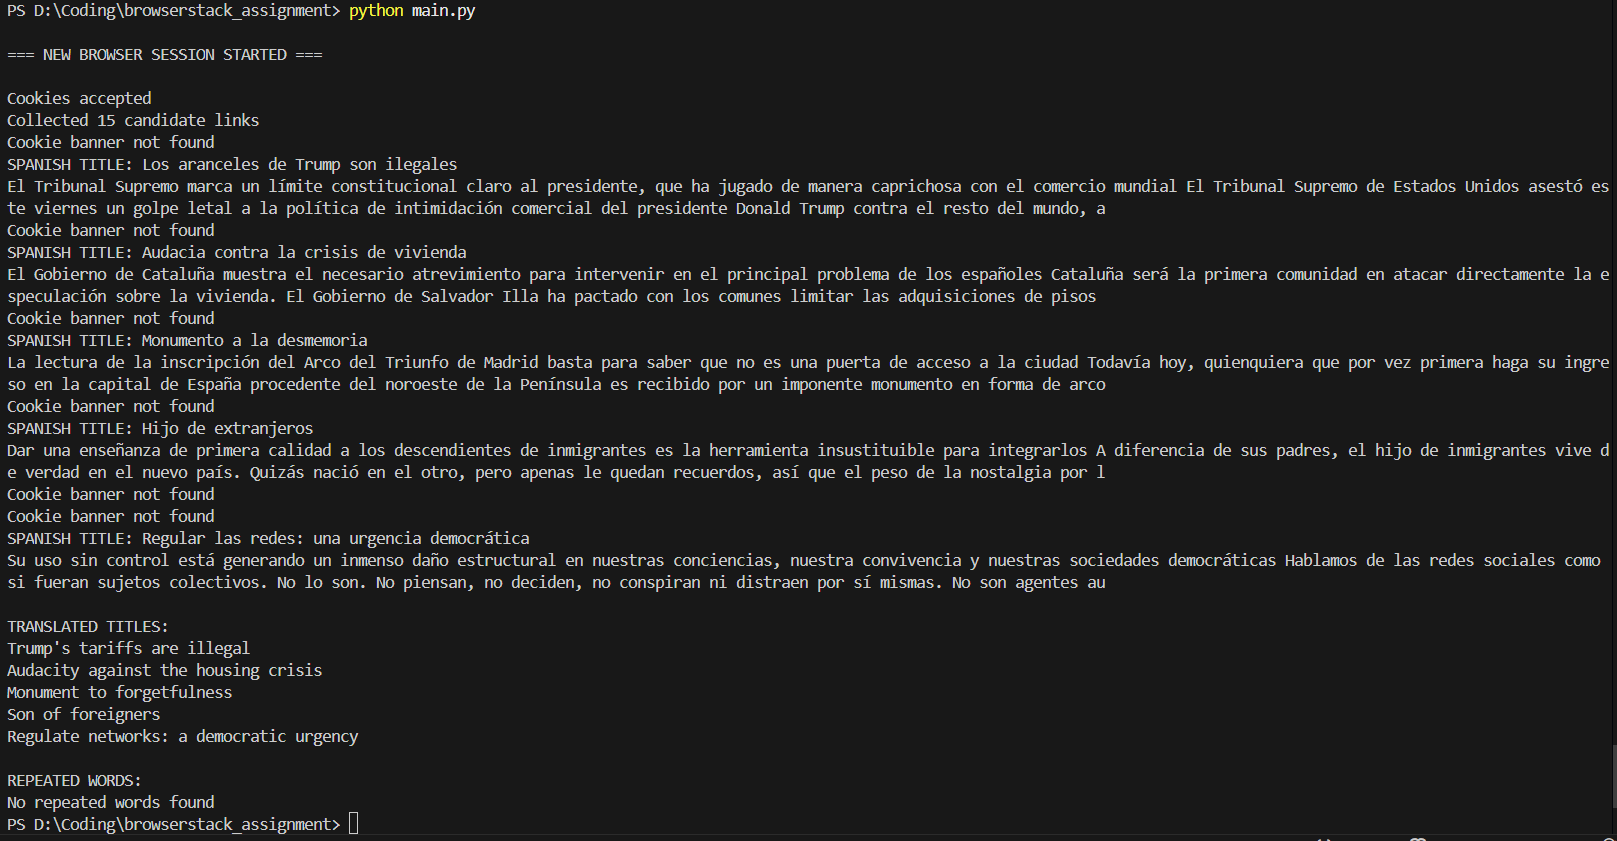
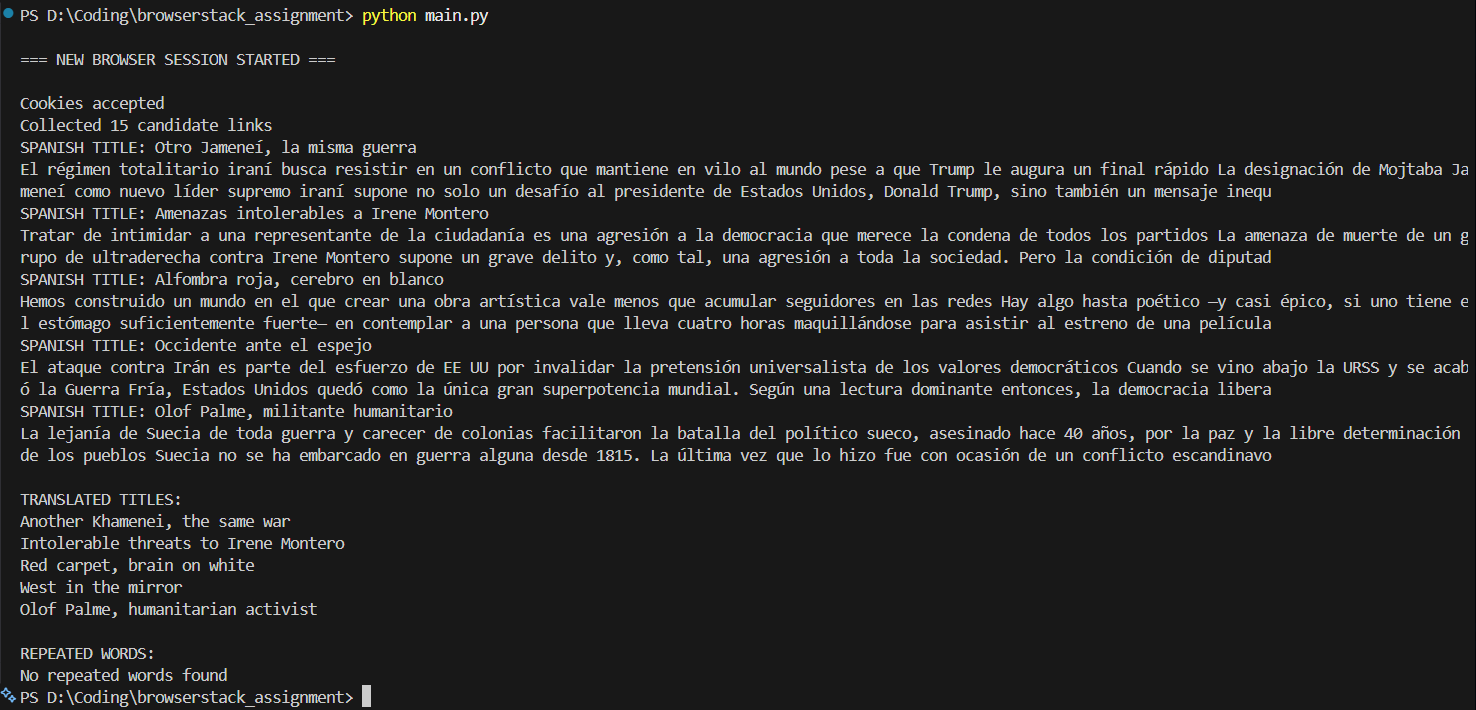
Update driver setup and add new terminal output screenshot

diff --git a/driver/driver_setup.py b/driver/driver_setup.py
@@ -1,3 +1,5 @@
+import os
+from selenium import webdriver
 from selenium.webdriver import Remote
 from selenium.webdriver.chrome.options import Options
 
@@ -5,18 +7,24 @@ def setup_driver():
 
     options = Options()
 
-    options.set_capability("browserName", "Chrome")
-    options.set_capability("browserVersion", "latest")
+    # If BrowserStack SDK is running
+    if os.getenv("BROWSERSTACK_USERNAME"):
 
-    options.set_capability("bstack:options", {
-        "sessionName": "El Pais Scraper Test",
-        "buildName": "browserstack-el-pais-scraper",
-        "projectName": "browserstack-assignment"
-    })
+        options.set_capability("browserName", "Chrome")
 
-    driver = Remote(
-        command_executor="https://hub-cloud.browserstack.com/wd/hub",
-        options=options
-    )
+        options.set_capability("bstack:options", {
+            "sessionName": "El Pais Scraper Test",
+            "buildName": "browserstack-el-pais-scraper",
+            "projectName": "browserstack-assignment"
+        })
+
+        driver = Remote(
+            command_executor="https://hub-cloud.browserstack.com/wd/hub",
+            options=options
+        )
+
+    else:
+        # Run locally
+        driver = webdriver.Chrome(options=options)
 
     return driver
